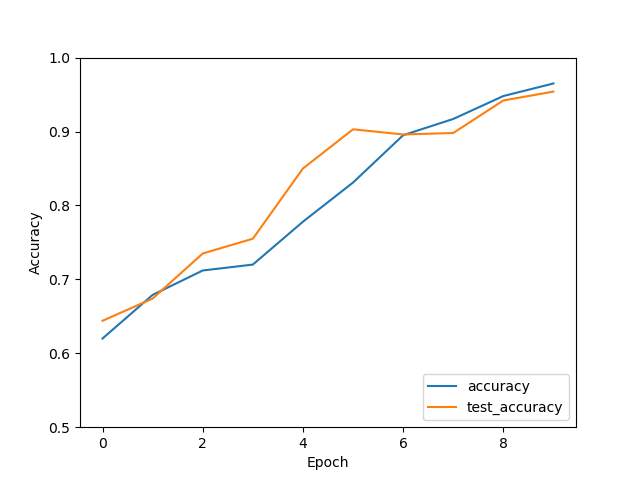
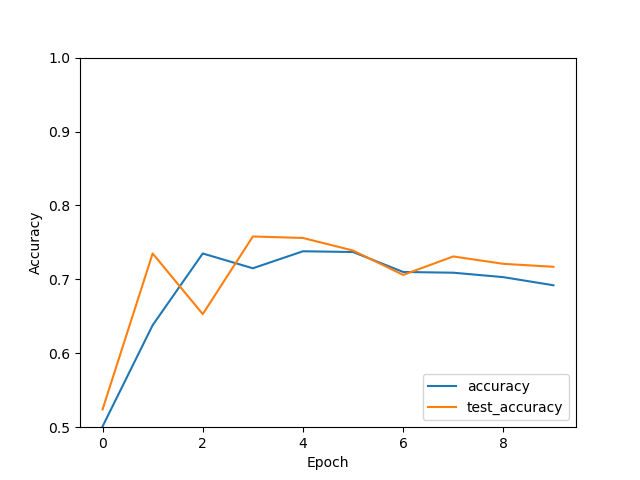
add metrics and identity initialization

diff --git a/mdlf/models.py b/mdlf/models.py
@@ -1,3 +1,5 @@
+from mdlf.metrics import Accuracy
+import torch
 import mdlf.activations as activations
 import mdlf.layers as layers
 from torch import empty
@@ -12,6 +14,7 @@ class Sequential:
 
         self.layers_activations = None
         self.optimizer = None
+        self.metrics = None
 
     
     def add(self, module):
@@ -61,12 +64,12 @@ class Sequential:
 #modify also activation backward to get only 1 possible case
 
     def forward(self, input, label):
-        tmp = input    
+        tmp = input
         
         for module in self.modules:
             output = module.forward(tmp)
             tmp = output
-
+        
         outpout = self.loss.forward(tmp,label)
 
         return outpout
@@ -75,16 +78,14 @@ class Sequential:
         #TODO : implement reconstruct to modify modules
     def backward(self, input, label):
         output = self.forward(input,label)
-        last_activation = self.modules[-1]
 
-
-        delta = self.loss.backward(output, label) * last_activation.backward()  #check if transpose needed or @
-        for module in reversed(self.modules[:-1]): #get the second last layer (since -1 )
+        delta = self.loss.backward(output, label)
+        for module in reversed(self.modules):
             delta = module.backward(delta)
 
         return delta #useless normally
 
-    def train(self, train_data, train_label, epochs = 10, test_data = empty((0,0))  , test_label = empty((0,0))):
+    def train(self, train_data, train_label, epochs = 10, test_data = empty((0,0))  , test_label = empty((0,0)), verbal=True):
 
         loss_per_epoch_train = []
         accuracy_per_epoch_train  = []
@@ -95,7 +96,7 @@ class Sequential:
             loss_per_epoch_test = []
             accuracy_per_epoch_test  = []
 
-        for e in range(epochs) :
+        for i in range(epochs) :
             self.optimizer.step(self, train_data, train_label)
             loss,accuracy,_ = self.loss_accuracy_function(train_data,train_label)
             loss_per_epoch_train.append(loss)
@@ -105,32 +106,34 @@ class Sequential:
                 loss,accuracy,_ = self.loss_accuracy_function(test_data,test_label)
                 loss_per_epoch_test.append(loss)
                 accuracy_per_epoch_test.append(accuracy)
+            
+            if verbal:
+                print("epochs number {} : Loss = {} and Accuracy = {}".format( i+1,loss ,accuracy ))
 
         if test_is_here : return loss_per_epoch_train, accuracy_per_epoch_train, loss_per_epoch_test, accuracy_per_epoch_test
         else : return loss_per_epoch_train, accuracy_per_epoch_train 
 
     def loss_accuracy_function(self,train_data,train_label):
-        loss = []
-        prediction = []
+        
         size = train_data.size(0)
+        prediction = torch.empty(size)
+        loss = torch.empty(size)
 
         for i in range (size):
-            loss.append(self.forward(train_data[i],train_label[i]))
-            prediction.append(self.loss.input) 
+            loss[i] = self.forward(train_data[i],train_label[i])
+            prediction[i] = self.loss.input
 
-        prediction =[1 if n >=0 else 0 for n in prediction]
-        result = [i1 - i2 for i1, i2 in zip(prediction, train_label.tolist())]
-        accuracy = 100 - result.count(0)/size * 100
-
-        return sum(loss), accuracy, prediction
+        accuracy = self.metrics(prediction, train_label)
+        return loss.mean(), accuracy, prediction
     
-    def fit(self,test_data,test_label):
+    def __call__(self,test_data,test_label):
         test_loss,test_accuracy, predicted_labels = self.loss_accuracy_function(test_data,test_label)
         return test_loss,test_accuracy,predicted_labels
 
-    def compile(self, optimizer, loss):
+    def compile(self, optimizer, loss, metrics=None):
         self.optimizer = optimizer
         self.loss = loss
+        self.metrics = metrics
         self.reconstruct_model()
 
         previous_output_dim = -1

diff --git a/mdlf/layers.py b/mdlf/layers.py
@@ -17,11 +17,6 @@ class Identity(Layer):
         self.output_dim = input_dim
         self.input_dim = input_dim
         self.number_params = 0
-        self.weights = None
-        self.bias = None
-        self.input = None
-        self.weights_grad = None
-        self.bias_grad = None
 
     def forward(self, input):
         return input
@@ -32,13 +27,21 @@ class Identity(Layer):
     
     def initialize(self, input_dim):
         #if the first module is an identity layer -> input_dim is size of train_data (2)
-        if input_dim == -1 : 
-            # !!! Changer et mettre erreur !!!
-            self.input_dim = 2
-            self.output_dim = 2
-        else :
-            self.input_dim = input_dim
-            self.output_dim = input_dim
+        # Handle automatic dimension initialization
+        if input_dim == -1:
+            if self.input_dim == -1:
+                raise RuntimeError("This identity layer need a manual initialization "
+                                   "of the input dimension, e.g."
+                                   " Identity(input_dim=64)")
+        else:
+            if self.input_dim != -1 and input_dim != self.input_dim:
+                raise RuntimeError("The manually set input dimension ({}) of this layer"
+                                   " is different from the one inferred automatically ({})"
+                                   " by the initialization of the sequential model".format(self.input_dim, input_dim))
+            else:
+                self.input_dim = input_dim
+        
+        self.output_dim = self.input_dim
     
     def param(self): 
         return []
@@ -59,10 +62,10 @@ class Linear(Layer):
         self.weights_grad = None
         self.bias_grad = None
 
-# see if output needed
-# if we are in layer l:
-# input : x_{l-1} 
-# output : z_l
+    # see if output needed
+    # if we are in layer l:
+    # input : x_{l-1} 
+    # output : z_l
     def forward(self, input):
         self.input = input
         return self.weights.T @ input + self.bias
@@ -70,11 +73,10 @@ class Linear(Layer):
     def backward(self, *grad_wrt_output):
         #print("grad_wrt_output",grad_wrt_output)
         curr_delta = grad_wrt_output[0] #delta_l
-        self.weights_grad = self.input.unsqueeze(1) @ curr_delta.unsqueeze(0)
+        self.weights_grad = self.input.view(-1,1) @ curr_delta.view(1,-1)
         self.bias_grad = curr_delta     
-        prev_delta_partial = (self.weights @ curr_delta) # delta_{l-1} without componentwise activation mult
-        
-        return prev_delta_partial 
+        return (self.weights @ curr_delta) # delta_{l-1} without componentwise activation mult
+
 
     def param(self): 
         return [(self.weights, self.weights_grad), (self.bias, self.bias_grad)]
@@ -105,16 +107,15 @@ class Linear(Layer):
             else:
                 self.input_dim = input_dim
 
-        # Initialize weights and bias : TODO : initiate with correct uniform
-        self.weights = empty(self.input_dim, self.output_dim).uniform_(0, 1)
-        self.bias = empty(self.output_dim).fill_(0)
+        # Initialize weights and bias :
+        uniform_param = 1 / (self.input_dim**(1/2))
+        self.weights = empty(self.input_dim, self.output_dim).uniform_(-uniform_param, uniform_param)
+        self.bias = empty(self.output_dim).uniform_(-uniform_param, uniform_param)
         self.number_params = self.output_dim * self.input_dim + self.output_dim
         
         # Initialize gradient weights and gradient bias :
-        self.weights_grad = empty((self.weights.shape))
-        self.weights_grad[:, :] = 0.0
-        self.bias_grad = empty((self.bias.shape))
-        self.bias_grad[:] = 0.0
+        self.weights_grad = empty((self.weights.shape)).fill_(0.0)
+        self.bias_grad = empty((self.bias.shape)).fill_(0.0)
 
     def __str__(self):
         return super().__str__() + ": Linear" 

diff --git a/mdlf/activations.py b/mdlf/activations.py
@@ -26,32 +26,33 @@ class ReLU(Activation):
     #store z_l : z_l -> activation(z_l) -> x_l
     def forward(self, input):
         self.input = input 
-        return input.where(input >= 0, empty(input.shape).fill_(0))
+        return self.input.relu()
+        #return input.where(input >= 0, empty(input.shape).fill_(0))
     
     #compute activation_deriv(z_l)
-    #TODO : think if the delta{L+1} is computed componentwise !!! => if yes can greatly simplify
     def backward(self, *grad_wrt_output):
-        activ_eval = (self.input >= 0).to(self.input.dtype)        
-        if len(grad_wrt_output) == 0 :
-            return activ_eval
-        else :
-            return grad_wrt_output[0] * activ_eval
+        derivative = (self.input >= 0).to(self.input.dtype)        
+        return grad_wrt_output[0] * derivative
     
     def __str__(self):
         return super().__str__() + ": ReLU"
 
 class Tanh(Activation):
 
+    def __init__(self, dim=-1):
+        super().__init__(dim)
+        self.tanh = None # avoid recomputation in backward pass
+
     def forward(self, input):
         self.input = input
-        return input.tanh()
+        self.tanh = input.tanh()
+        return self.tanh
+        # e = (2*input).exp()
+        # return (e-1)/(e+1)
     
     def backward(self, *grad_wrt_output):
-        derivative_Tanh = (1 - (self.input.tanh() ** 2)).to(self.input.dtype)
-        if len(grad_wrt_output) == 0 :
-            return derivative_Tanh
-        else :
-            return grad_wrt_output[0] * derivative_Tanh
+        derivative_Tanh = (1 - self.tanh ** 2).to(self.input.dtype)
+        return grad_wrt_output[0] * derivative_Tanh
     
     def __str__(self):
         return super().__str__() +": Tanh"
@@ -62,10 +63,7 @@ class Identity(Activation):
         return input
     
     def backward(self, *grad_wrt_output):
-        if len(grad_wrt_output) == 0 :
-            return empty((self.input.size())).fill_(1) 
-        else :
-            return grad_wrt_output[0] * empty((grad_wrt_output[0].size())).fill_(1)
+        return grad_wrt_output[0] # * [1,1...,1] which is unnecessary
     
     def __str__(self):
         return super().__str__() + ": Identity"

diff --git a/test.py b/test.py
@@ -4,9 +4,14 @@ import math
 import mdlf.models as models
 import mdlf.layers as layers
 import mdlf.activations as activations
+import mdlf.metrics as metrics
+import math
 
 #to be deleted when submission
 import utils
+import torch
+torch.manual_seed(42)
+#print(torch.seed())
 
 def generate_dataset(size):
     """
@@ -32,29 +37,25 @@ model.add(activations.ReLU())
 model.add(layers.Linear(number_nodes=1))
 model.add(activations.Tanh())
 
-model.compile(optimizer=optimizer.SGD(), loss=loss.MSE())
+model.compile(optimizer=optimizer.SGD(), 
+              loss=loss.MSE(), 
+              metrics=metrics.BinaryAccuracy(threshold=0.0))
+
+print(model)
 
 #two way to call function train -> input only train or train + test
-train_loss_per_epochs, train_accuracy_per_epochs = model.train(train_data, train_label)
-train_loss_per_epochs, train_accuracy_per_epochs, test_loss_per_epochs, test_accuracy_per_epochs = model.train(train_data, train_label,epochs = 10, test_data =test_data, test_label= test_label)
+train_loss_per_epochs, train_accuracy_per_epochs = model.train(train_data, train_label, epochs=100)
+#train_loss_per_epochs, train_accuracy_per_epochs, test_loss_per_epochs, test_accuracy_per_epochs = model.train(train_data, train_label,epochs = 10, test_data =test_data, test_label= test_label)
 
 #fit function 
-test_loss,test_accuracy,predicted_labels = model.fit(test_data,test_label)
+test_loss,test_accuracy,predicted_labels = model(test_data,test_label)
 
-for i in range(10):
-   print("epochs number {} : Loss = {} and Accuracy = {}".format( i+1,train_loss_per_epochs[i] , train_accuracy_per_epochs[i] ))
-
-"""
 #Plot result of Mini DL framework
 #utils.plot_circle_with_predicted_labels(test_data, test_label, predicted_label=predicted_labels)
 
+
 #Apply tensorflow neural network on data
-utils.call_NN_tensorflow( train_data, train_label, test_data, test_label,
+m = utils.call_NN_tensorflow( train_data, train_label, test_data, test_label,
                 epochs= 10, 
                 show_accuracy = True,
                 show_points = True)
-
-"""
-
-
-

diff --git a/utils.py b/utils.py
@@ -60,17 +60,19 @@ def call_NN_tensorflow(train_data,train_labels,test_data,test_labels,
     model_tf.add(layers_tf.Dense(25, activation='relu'))
     model_tf.add(layers_tf.Dense(25, activation='relu'))
     model_tf.add(layers_tf.Dense(25, activation='relu'))
-    model_tf.add(layers_tf.Dense(2, activation='tanh'))
-    model_tf.add(layers_tf.Dense(1, activation="sigmoid"))
+    model_tf.add(layers_tf.Dense(1, activation='tanh'))
+    #model_tf.add(layers_tf.Dense(1, activation="sigmoid"))
 
     model_tf.summary()
 
+    metrics = tf.keras.metrics.BinaryAccuracy(name="binary_accuracy", dtype=None, threshold=0.0)
+    metrics2 = tf.keras.metrics.BinaryAccuracy(name="accuracy")
 
-    model_tf.compile(optimizer='adam',loss='MSE',metrics=['accuracy'])
+    model_tf.compile(optimizer='SGD',loss='MSE',metrics=[metrics, metrics2])
 
     history = model_tf.fit(train_data.tolist(), train_labels.tolist(), epochs=epochs,validation_data=(test_data.tolist(), test_labels.tolist()))
 
-    if show_accuracy :
+    if not show_accuracy :
         plt.plot(history.history['accuracy'], label='accuracy')
         plt.plot(history.history['val_accuracy'], label = 'test_accuracy')
         plt.xlabel('Epoch')
@@ -79,12 +81,9 @@ def call_NN_tensorflow(train_data,train_labels,test_data,test_labels,
         plt.legend(loc='lower right') 
         plt.savefig('Accuracy'+'.png')
 
-    predictions = model_tf.predict(test_data.tolist())
-    predictions =[1 if i >=0.5 else 0 for i in predictions]
-
     if show_points :
         predictions = model_tf.predict(test_data.tolist())
-        predictions =[1 if i >=0.5 else 0 for i in predictions]
+        predictions =[1 if i >=0.0 else 0 for i in predictions]
         plot_circle_with_predicted_labels(test_data,test_labels,predictions,tensorflow = True)
 
 

diff --git a/mdlf/optimizer.py b/mdlf/optimizer.py
@@ -8,7 +8,7 @@ class Optimizer:
 
 #TODO: determine get a good lambda_
 class SGD(Optimizer):
-    def __init__(self, lambda_ = 0.00001):
+    def __init__(self, lambda_ = 0.01):
         self.lambda_ = lambda_
 
     def step(self, model, train_data, train_label):
@@ -32,7 +32,7 @@ class SGD(Optimizer):
             return model
 
 #TODO : see if time to implement => require to store list of grad in modules and not just grad
-class minibatch_SGD(Optimizer):
+class Minibatch_SGD(Optimizer):
     def __init__(self, lambda_, mini_batch_size):
         self.lambda_ = lambda_
         self.mini_batch_size = mini_batch_size

diff --git a/mdlf/loss.py b/mdlf/loss.py
@@ -14,11 +14,16 @@ class Loss(Module):
 
 
 class MSE(Loss):
+
+    def __init__(self):
+        self.input = None
+        self.label = None
+
     #TODO
     def forward(self, input, label): 
         self.input = input
         self.label = label
-        loss_mse = (0.5*(input - label) ** 2).mean()
+        loss_mse = (0.5*(input - label) ** 2)
         return loss_mse
         #raise NotImplementedError
 

diff --git a/mdlf/metrics.py b/mdlf/metrics.py
@@ -1,0 +1,11 @@
+class Accuracy:
+    def __call__(self, predicted, target):
+        return (predicted == target).to(predicted.dtype).mean()
+
+class BinaryAccuracy:
+    def __init__(self, threshold=0.5):
+        self.threshold = threshold
+
+    def __call__(self, predicted, target):
+        pred = (predicted >= self.threshold)
+        return (pred == target).to(predicted.dtype).mean()
